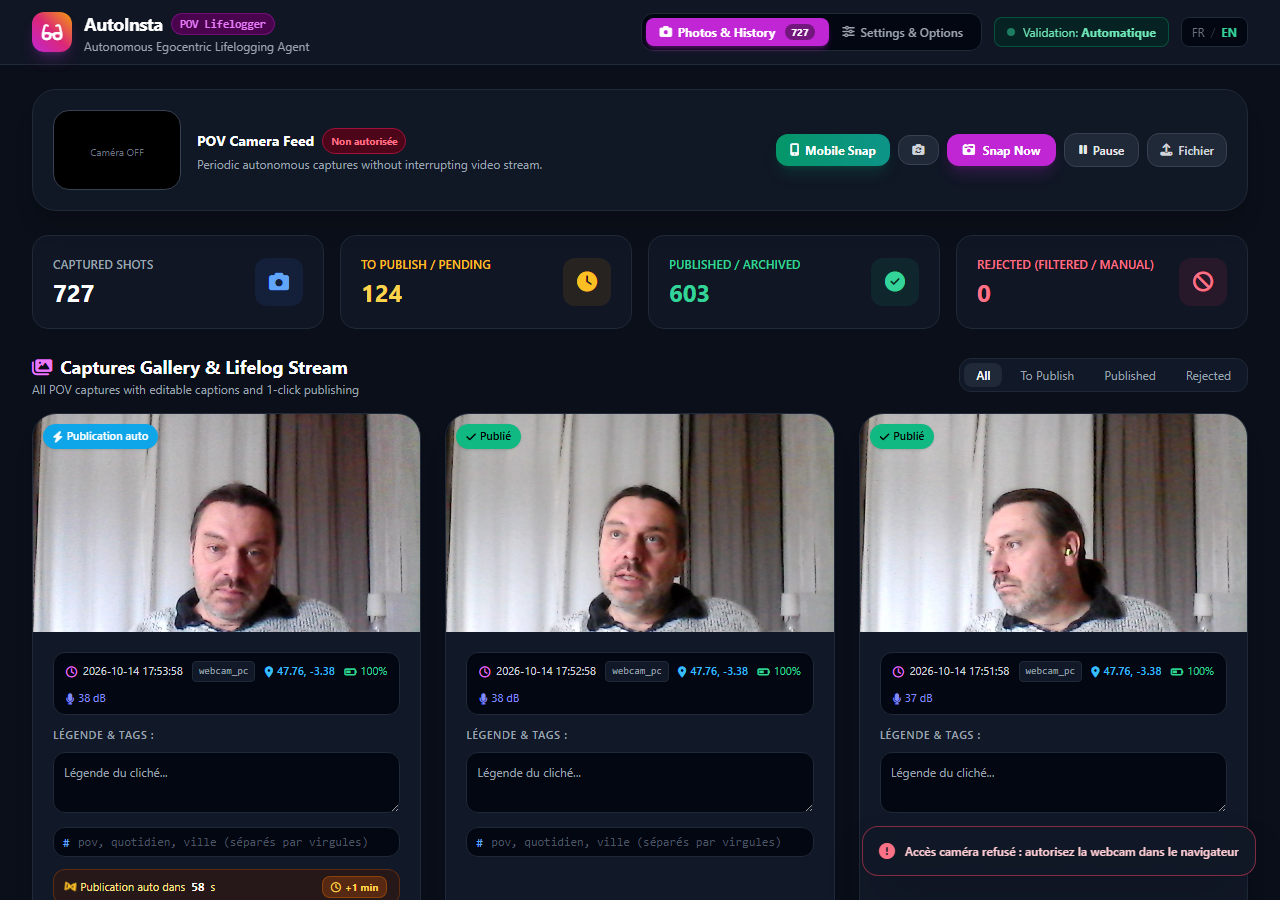
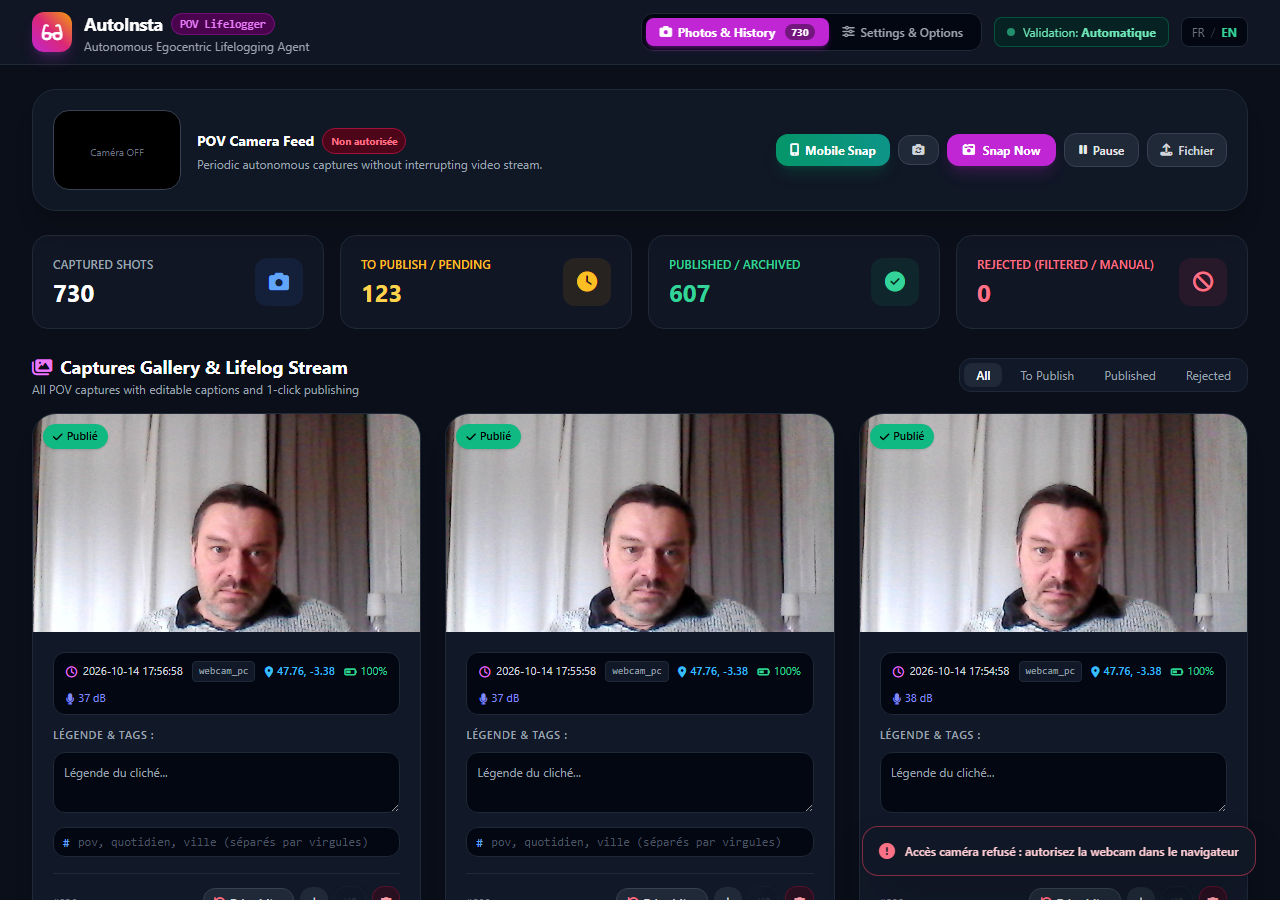
docs: standardize all documentation to 100% English and keep only 2 main dashboard screenshots

diff --git a/server/app.py b/server/app.py
@@ -5,6 +5,7 @@ import shutil
 import uuid
 import asyncio
 import logging
+import datetime
 from pathlib import Path
 from typing import Optional, List, Any
 from fastapi import FastAPI, File, UploadFile, Form, Header, HTTPException, BackgroundTasks, Request

diff --git a/README.md b/README.md
@@ -96,62 +96,62 @@ AutoInsta features a modern responsive UI (desktop and mobile PWA) with live mul
 
 ---
 
-## 🚀 Guide de Démarrage Rapide
+## 🚀 Quick Start Guide
 
-### ⚠ Différence Essentielle : `INSTALL` vs `START`
+### ⚠ Essential Distinction: `INSTALL` vs `START`
 
-| Étape | Rôle | Quand l'exécuter ? |
+| Step | Purpose | When to Run? |
 | :--- | :--- | :--- |
-| **`INSTALL`** | Télécharge et installe les bibliothèques requises (`fastapi`, `uvicorn`, `pillow`, etc.) et initialise le fichier de configuration `.env`. | **Une seule fois**, lors de la première installation. |
-| **`START`** | Démarre le serveur local, active l'écoute des capteurs, ouvre le tableau de bord web et prépare la file d'approbation. | **À chaque utilisation**, quand vous voulez faire tourner AutoInsta. |
+| **`INSTALL`** | Downloads and installs required dependencies (`fastapi`, `uvicorn`, `pillow`, etc.) and initializes the `.env` configuration file. | **Once**, during initial setup. |
+| **`START`** | Boots the local server, activates sensor listeners, opens the web dashboard, and prepares the approval queue. | **Every time** you want to run AutoInsta. |
 
 ---
 
-### 💻 Utilisation par Plateforme (Dossier `scripts/`)
+### 💻 Platform-Specific Launchers (`scripts/` folder)
 
-Tous les scripts ont été regroupés proprement dans le sous-dossier [`scripts/`](file:///c:/Silvere/Encours/Developpement/AutoInsta/scripts/) par système d'exploitation :
+All helper scripts are organized in the [`scripts/`](scripts/) folder by operating system:
 
-#### 🪟 Windows :
-- **1. Installation initiale (1 seule fois)** :
-  Double-cliquez sur [`scripts/windows/install.bat`](file:///c:/Silvere/Encours/Developpement/AutoInsta/scripts/windows/install.bat).
-- **2. Lancement au quotidien** :
-  Double-cliquez sur le raccourci [**`start.bat`**](file:///c:/Silvere/Encours/Developpement/AutoInsta/start.bat) à la racine du projet (ou [`scripts/windows/start.bat`](file:///c:/Silvere/Encours/Developpement/AutoInsta/scripts/windows/start.bat)).
-- **Menu interactif proposé** :
+#### 🪟 Windows:
+- **1. Initial Setup (once)**:
+  Double-click [`scripts/windows/install.bat`](scripts/windows/install.bat).
+- **2. Everyday Run**:
+  Double-click the [**`start.bat`**](start.bat) shortcut in the root directory (or [`scripts/windows/start.bat`](scripts/windows/start.bat)).
+- **Interactive Menu Options**:
   ```text
-  [1] Démarrer le Serveur Web & Ouvrir le Tableau de bord (Recommandé)
-  [2] Démarrer le Serveur en Mode Démo (Simulation photos & capteurs)
-  [3] Lancer le Client Caméra PC (Webcam locale)
-  [4] Exécuter la Suite de Tests Complète
-  [5] Installer ou Mettre à jour les dépendances requises
-  [6] Activer l'Autodémarrage au Boot (Windows / macOS / Linux)
-  [7] Désactiver l'Autodémarrage
+  [1] Start Web Server & Open Dashboard (Recommended)
+  [2] Start Server in Demo Mode (Mock photos & sensors)
+  [3] Launch PC Camera Client (Local webcam)
+  [4] Run Full Test Suite
+  [5] Install or Update Dependencies
+  [6] Enable Autostart on Boot (Windows / macOS / Linux)
+  [7] Disable Autostart
   ```
 
-#### 🐧 Linux :
+#### 🐧 Linux:
 ```bash
-# 1. Installation initiale (1 seule fois)
+# 1. Initial setup (once)
 ./scripts/linux/install.sh
 
-# 2. Lancement au quotidien
+# 2. Everyday run
 ./scripts/linux/start.sh
 ```
 
-#### 🍏 macOS :
+#### 🍏 macOS:
 ```bash
-# 1. Installation initiale (1 seule fois)
+# 1. Initial setup (once)
 ./scripts/macos/install.sh
 
-# 2. Lancement au quotidien
+# 2. Everyday run
 ./scripts/macos/start.sh
 ```
 
 ---
 
-### 🌐 Accès à l'Interface Web & Dashboard
+### 🌐 Accessing the Web Dashboard
 
-Dès que le serveur est démarré :
-- **Sur votre ordinateur** : Accédez à [**`http://localhost:8000`**](http://localhost:8000)
-- **Sur votre téléphone / montre connectée (même réseau Wi-Fi)** : Accédez à **`http://<IP_DU_PC>:8000`** *(l'adresse IP locale de votre machine est affichée automatiquement dans la console au démarrage).*
+Once the server is running:
+- **On your computer**: Open [**`http://localhost:8000`**](http://localhost:8000)
+- **On your phone or wearable (same Wi-Fi network)**: Open **`http://<PC_LOCAL_IP>:8000`** *(your computer's local IP address is automatically printed in the console on startup).*
 
 
 
@@ -182,7 +182,7 @@ AutoInsta provides flexible ways to capture and control the agent from your mobi
 
 ### 1. Instant Mobile App (PWA - Recommended for Zero Setup)
 No installation from an app store or command line needed:
-- Open `http://<IP_DU_PC>:8000` (or `https://...`) in Chrome or Safari on your phone.
+- Open `http://<PC_LOCAL_IP>:8000` (or `https://...`) in Chrome or Safari on your phone.
 - Tap **"Add to Home Screen"** / **"Install App"**.
 - AutoInsta runs in full screen as a standalone web application with instant camera snapshot upload and push notifications.
 

diff --git a/client/wearable/README.md b/client/wearable/README.md
@@ -1,56 +1,56 @@
-# AutoInsta - Guide Wearable & Montres Connectées
+# AutoInsta - Wearable & Smartwatch Integration Guide
 
-Ce dossier explique comment connecter vos appareils portables (montres connectées, bracelets d'activité) au serveur AutoInsta pour la télémétrie cardiaque et le bouton de l'homme mort.
+This guide explains how to connect your wearable devices (smartwatches, fitness trackers) to the AutoInsta server for heart rate telemetry and emergency Dead Man's Switch monitoring.
 
 ---
 
-## 1. Principe de Fonctionnement
+## 1. How It Works
 
-Le serveur AutoInsta expose une API REST simple pour recevoir les données de santé :
-- **Endpoint HTTP** : `POST http://<IP_DU_PC>:8000/api/sensors/health`
-- **Format JSON** :
+The AutoInsta server exposes a lightweight REST API to receive health telemetry:
+- **HTTP Endpoint**: `POST http://<PC_LOCAL_IP>:8000/api/sensors/health`
+- **JSON Payload Format**:
   ```json
   {
     "heart_rate": 78,
-    "location": "Maison / Montre",
+    "location": "Home / Watch",
     "steps": 5120
   }
   ```
 
-Si la fréquence cardiaque descend sous `hr_min_bpm` (ex: 45 BPM) ou dépasse `hr_max_bpm` (ex: 145 BPM), le **Bouton de l'Homme Mort** s'enclenche automatiquement :
-1. Compte à rebours de 10 secondes avec son et vibrations.
-2. Possibilité pour l'utilisateur d'annuler manuellement via l'interface ou le téléphone.
-3. Si le compte à rebours expire sans réponse, dispatch de l'alerte de secours (selon vos autorisations).
+If heart rate drops below `hr_min_bpm` (e.g. 45 BPM) or exceeds `hr_max_bpm` (e.g. 145 BPM), the **Dead Man's Switch** automatically engages:
+1. 10-second countdown with sound and vibration alerts.
+2. The user can cancel the alert at any time via the web dashboard or mobile notification.
+3. If the countdown expires without response, an emergency SOS dispatch is triggered according to your configured notification channels (Android SMS, Telegram, or Webhook).
 
 ---
 
-## 2. Tester immédiatement avec le simulateur
+## 2. Test Immediately with the Simulator
 
-Pour tester la réception des données de santé sans montre physique :
+Test health data reception without requiring a physical watch:
 ```bash
-# Tester un rythme normal
-py client/wearable/simulate_wearable.py --bpm 72
+# Test normal baseline rhythm
+python client/wearable/simulate_wearable.py --bpm 72
 
-# Tester le déclenchement d'urgence (Tachycardie)
-py client/wearable/simulate_wearable.py --emergency tachy
+# Test tachycardia emergency trigger
+python client/wearable/simulate_wearable.py --emergency tachy
 
-# Tester le déclenchement d'urgence (Bradycardie)
-py client/wearable/simulate_wearable.py --emergency brady
+# Test bradycardia emergency trigger
+python client/wearable/simulate_wearable.py --emergency brady
 ```
 
 ---
 
-## 3. Connexion d'une Montre Physique
+## 3. Connecting a Physical Smartwatch
 
-### Option A : Gadgetbridge (Recommandé pour montres ouvertes / Android)
-[Gadgetbridge](https://gadgetbridge.org/) est une application open-source pour Android qui se connecte aux montres (Pebble, Amazfit, Mi Band, Fossil, Garmin, Casio...).
-- Gadgetbridge émet des Intents Android à chaque mesure de fréquence cardiaque.
-- Notre client Termux ou Tasker peut capter ces Intents et appeler automatiquement l'API `POST /api/sensors/health`.
+### Option A: Gadgetbridge (Recommended for open smartwatches / Android)
+[Gadgetbridge](https://gadgetbridge.org/) is an open-source Android app for fitness trackers and watches (Pebble, Amazfit, Mi Band, Fossil, Garmin, Casio...).
+- Gadgetbridge broadcasts Android Intents upon every heart rate sample.
+- Termux or Tasker can capture these Intents and forward them to `POST /api/sensors/health`.
 
-### Option B : Wear OS (Pixel Watch, Galaxy Watch...)
-- Installez l'application gratuite **HTTP Shortcuts** sur Wear OS ou sur votre téléphone Android.
-- Configurez un raccourci ou un webhook automatique lors de la détection de fréquence cardiaque vers `http://<IP_DU_PC>:8000/api/sensors/health`.
+### Option B: Wear OS (Pixel Watch, Galaxy Watch...)
+- Install the free **HTTP Shortcuts** app on Wear OS or on your connected Android phone.
+- Configure an automatic webhook triggered by high/low heart rate readings pointing to `http://<PC_LOCAL_IP>:8000/api/sensors/health`.
 
-### Option C : Apple Watch
-- Utilisez l'application native **Raccourcis (Shortcuts)** sur iOS / watchOS.
-- Définissez une automatisation : *"Lorsque la fréquence cardiaque est supérieure à 140"* -> Action *"Obtenir le contenu de l'URL"* (`POST /api/sensors/health`).
+### Option C: Apple Watch
+- Use the built-in **Shortcuts** app on iOS / watchOS.
+- Set up an automation: *"When heart rate rises above 140"* -> Action *"Get Contents of URL"* (`POST /api/sensors/health`).
